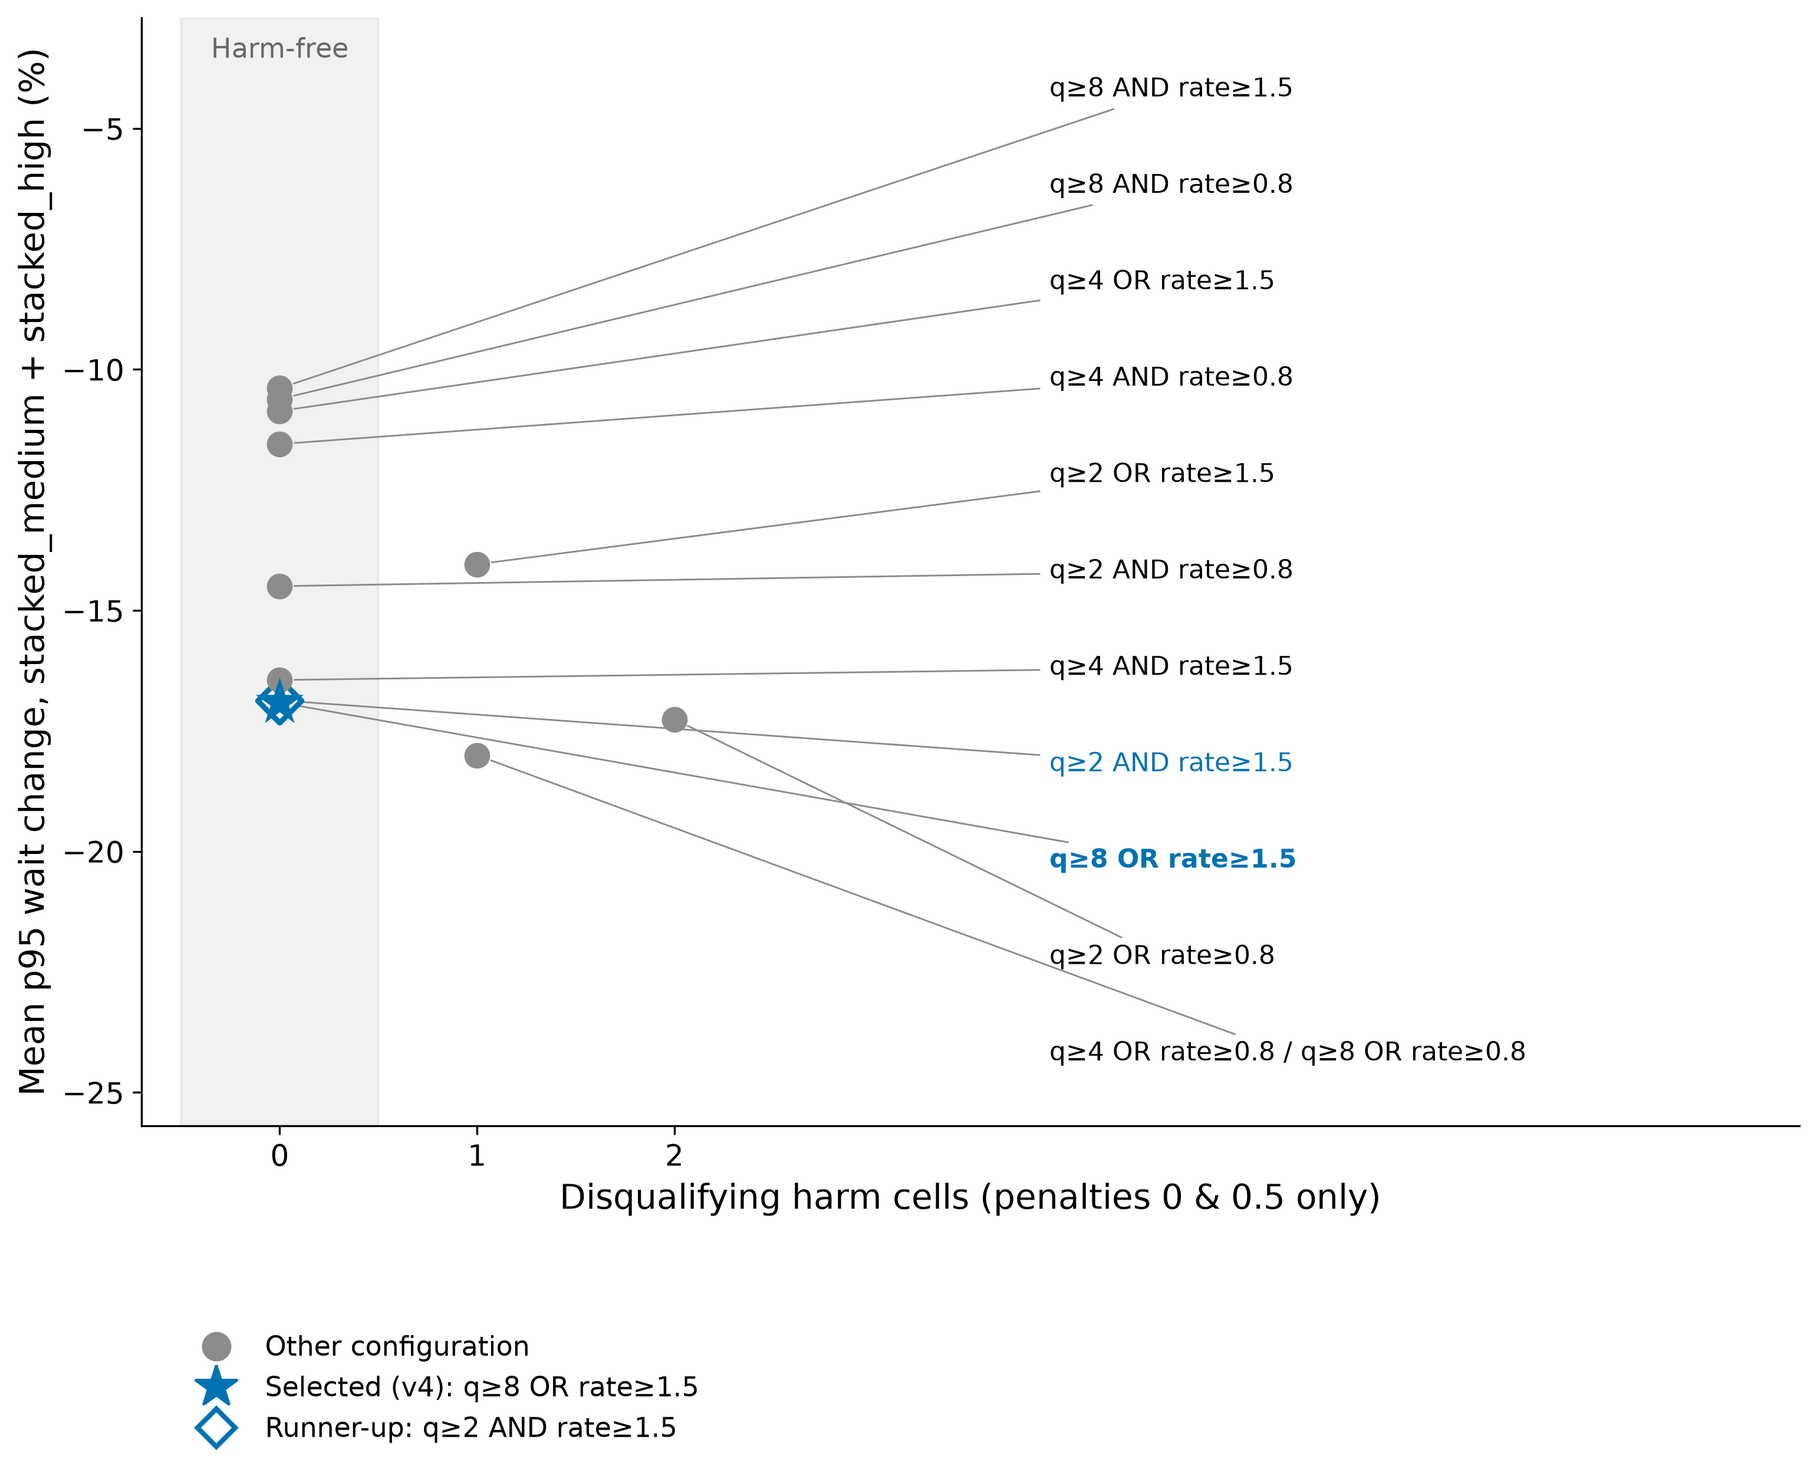
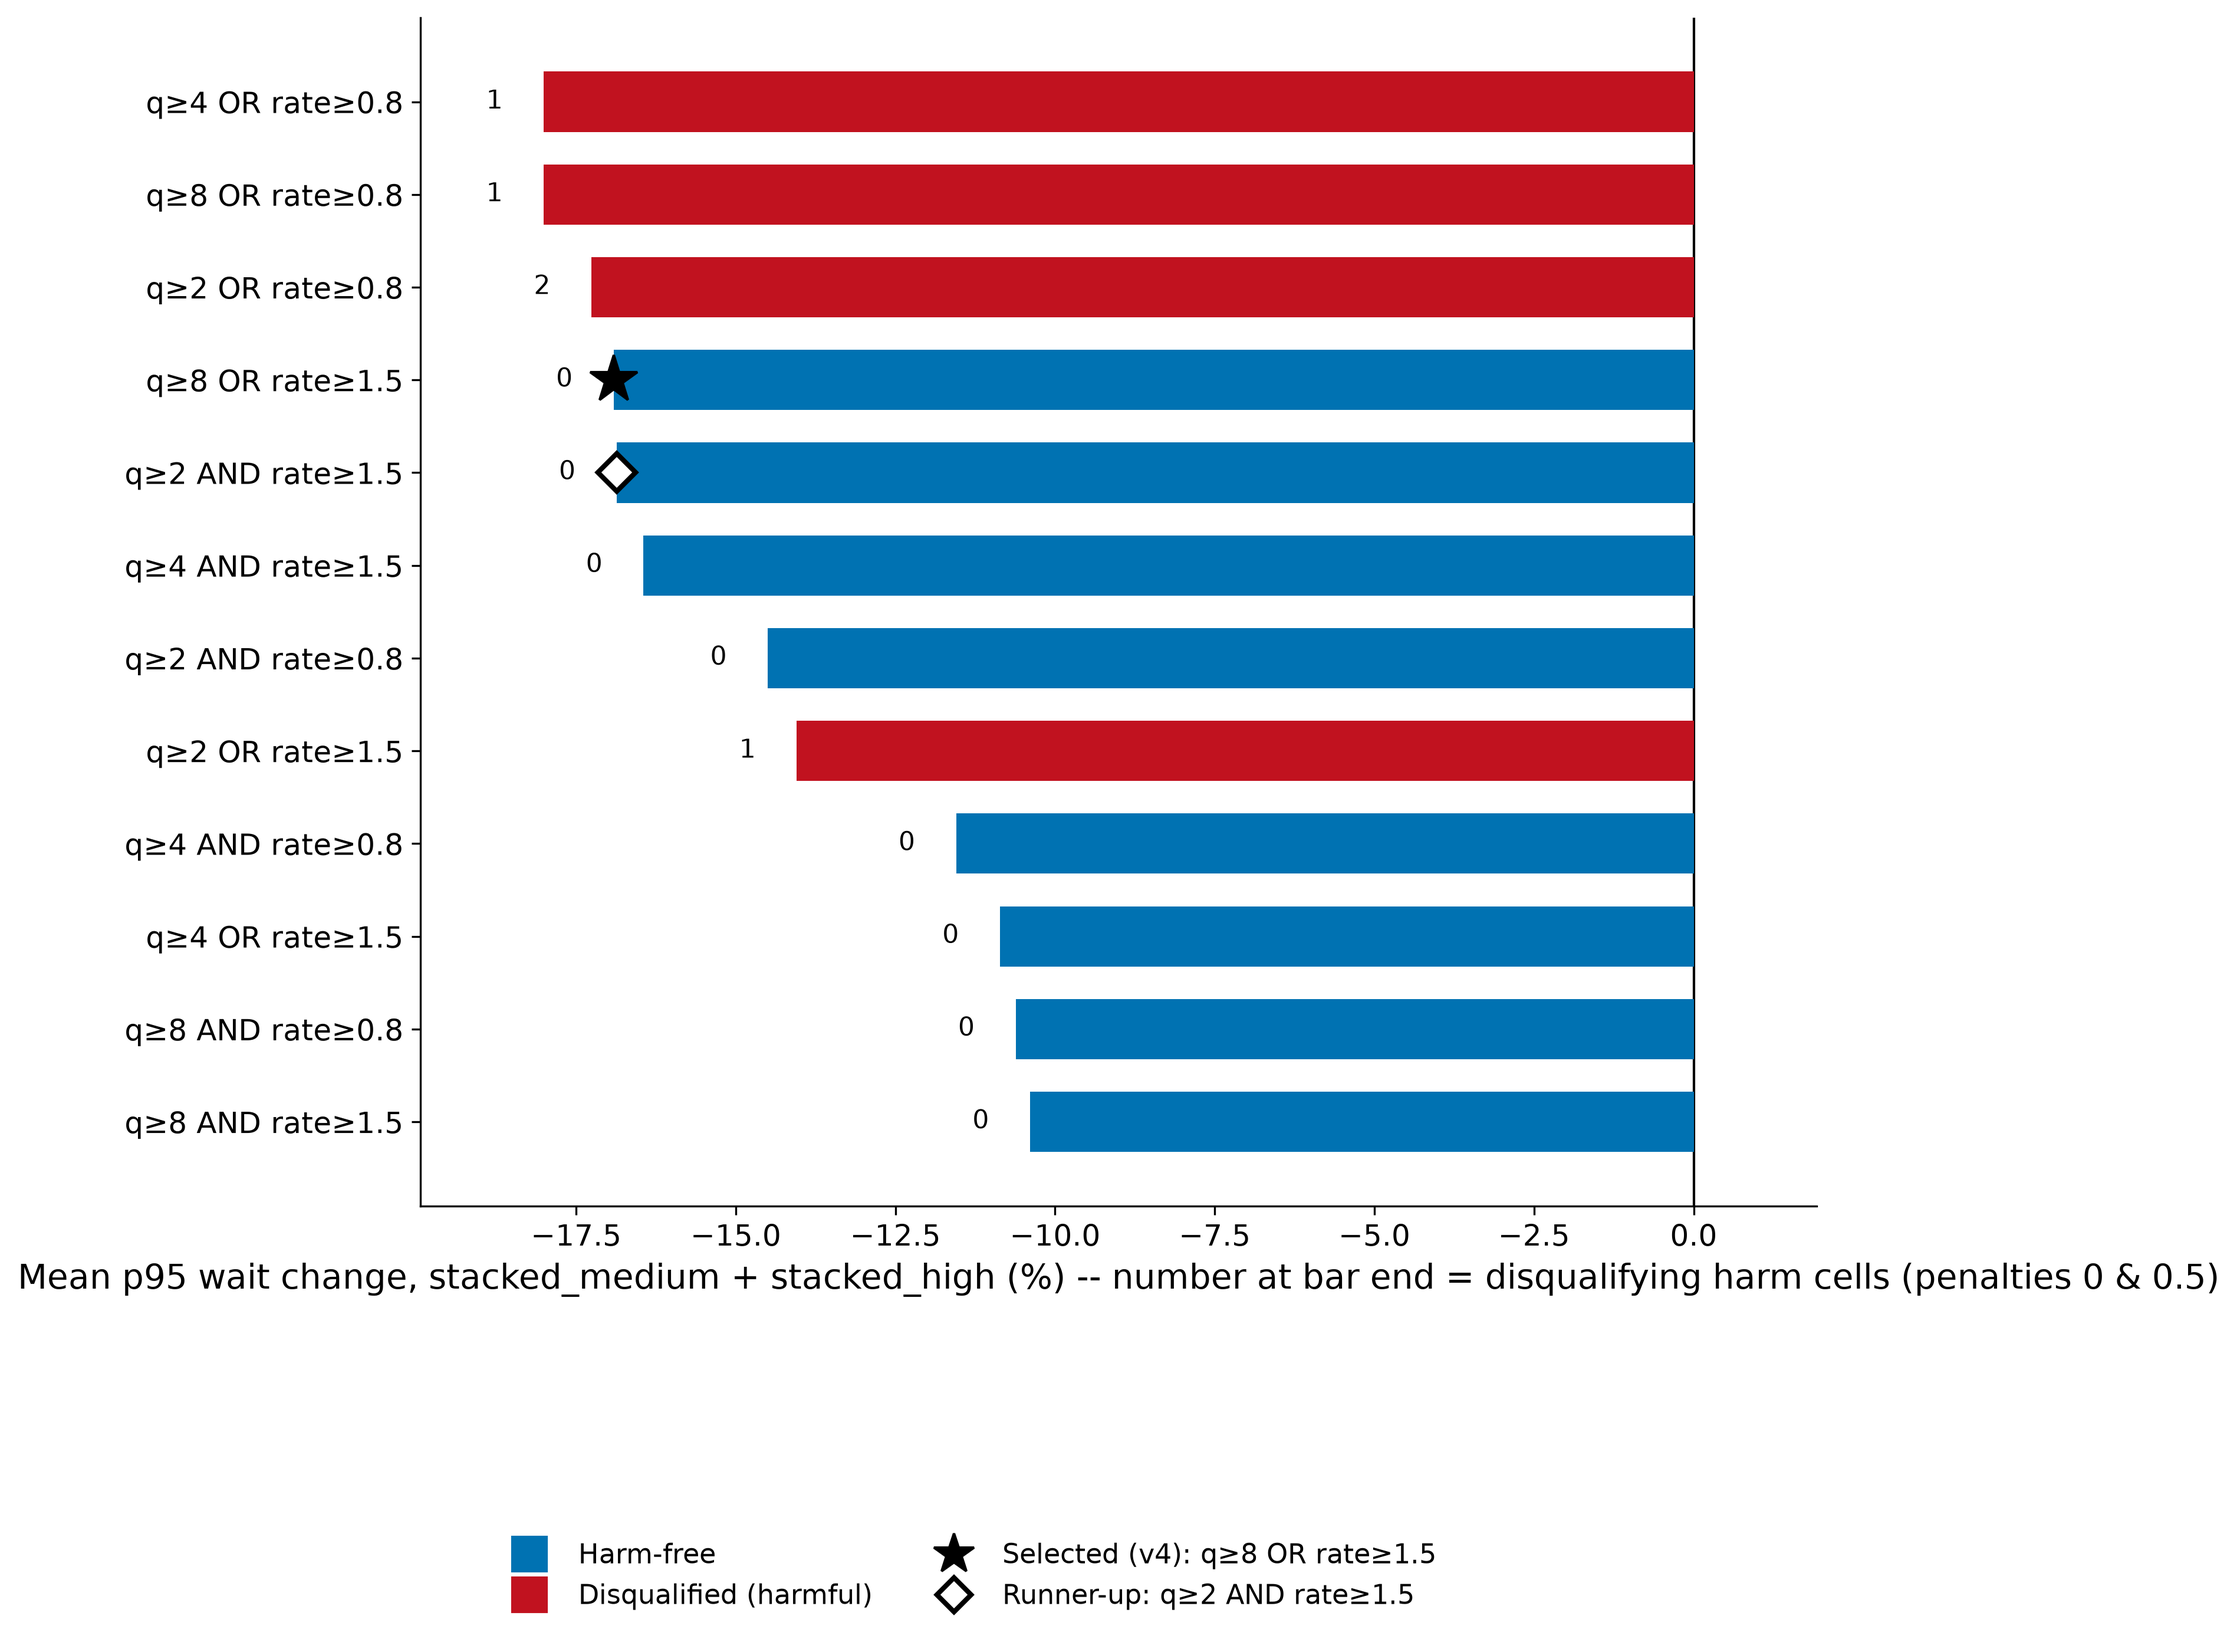
Fig 0: replace scatter with horizontal bar chart
- One bar per config (12), sorted by mean p95 change, harm-free vs disqualified by color
- Harm-cell count labeled at each bar's end; selected/runner-up marked
- Fixed a real bug: xlim excluded x=0, clipping every bar's true start
- Console now prints the disqualified config list from tradeoff_points_v4.csv

diff --git a/final_results/figures/make_figures.py b/final_results/figures/make_figures.py
@@ -194,6 +194,9 @@ def fig0_calibration_grid():
     # harm.py, not by task6_threshold_grid_tradeoff.py which wrote
     # tradeoff_points_v4.csv) before drawing anything.
     harm_free = sorted(p["config"] for p in points if p["harm_count"] == 0)
+    disqualified = sorted(p["config"] for p in points if p["harm_count"] > 0)
+    print(f"Fig 0: {len(disqualified)}/{len(points)} disqualified configs, "
+          f"from tradeoff_points_v4.csv's harm_count>0: {disqualified}")
     expected_harm_free = sorted(sel["harm_free_configs"])
     print(f"Fig 0: {len(harm_free)}/{len(points)} harm-free configs: {harm_free}")
     if harm_free != expected_harm_free:
@@ -221,97 +224,70 @@ def fig0_calibration_grid():
     print(f"Fig 0: SELECTED={selected_name} ({selected_pt['mean_pct']:.2f}%), "
           f"RUNNER-UP={runner_up_name} ({runner_up_pt['mean_pct']:.2f}%)")
 
-    # Group points landing on (almost) the exact same spot -- verified
-    # against the raw CSV this session: q4_a0.8_or and q8_a0.8_or are
-    # numerically IDENTICAL (same harmed workload drives both, so q never
-    # gets a chance to matter) -- merge rather than silently overplot one
-    # marker on the other.
-    groups = {}
-    for p in points:
-        key = (p["harm_count"], round(p["mean_pct"], 4))
-        groups.setdefault(key, []).append(p)
-    merged = []
-    for grp in groups.values():
-        merged.append(dict(
-            harm_count=grp[0]["harm_count"],
-            mean_pct=sum(p["mean_pct"] for p in grp) / len(grp),
-            configs=[p["config"] for p in grp],
-            label=" / ".join(p["label"] for p in grp),
-            is_selected=any(p["config"] == selected_name for p in grp),
-            is_runner_up=any(p["config"] == runner_up_name for p in grp),
-        ))
-    dupes = [g for g in merged if len(g["configs"]) > 1]
-    if dupes:
-        print("Fig 0: merged coincident points: " +
-              "; ".join(" + ".join(g["configs"]) for g in dupes))
+    # Horizontal bar chart, one bar per config (all 12, never merged --
+    # unlike a scatter, separate bars don't overplot even when two
+    # configs' scores coincide, e.g. q4_a0.8_or/q8_a0.8_or below).
+    # Sorted by selection score, best (most negative = biggest p95_wait
+    # reduction) at the top, matching Fig 1's "best at top" convention.
+    ordered = sorted(points, key=lambda p: p["mean_pct"])
+    ordered_for_plot = list(reversed(ordered))  # barh: first entry plots at the bottom
 
-    fig, ax = plt.subplots(figsize=(10.5, 8))
+    HARM_FREE_COLOR = COLOR["selected_checked"]
+    DISQUALIFIED_COLOR = COLOR["harm"]
 
-    max_harm = max(g["harm_count"] for g in merged)
-    ax.axvspan(-0.5, 0.5, color=COLOR["baseline"], alpha=0.12, zorder=0)
-    ax.annotate("Harm-free", xy=(0, 1), xycoords=("data", "axes fraction"),
-                xytext=(0, -8), textcoords="offset points",
-                ha="center", va="top", fontsize=11, color="dimgray")
+    y = list(range(len(ordered_for_plot)))
+    fig, ax = plt.subplots(figsize=(10, 8.5))
+    bar_colors = [HARM_FREE_COLOR if p["harm_count"] == 0 else DISQUALIFIED_COLOR
+                  for p in ordered_for_plot]
+    ax.barh(y, [p["mean_pct"] for p in ordered_for_plot], height=0.65,
+            color=bar_colors, zorder=3)
+    ax.axvline(0, color="black", linewidth=1.0)
 
-    for g in merged:
-        if g["is_selected"]:
-            marker, size, face, edge, lw = "*", 420, COLOR["selected_checked"], COLOR["selected_checked"], 0
-        elif g["is_runner_up"]:
-            marker, size, face, edge, lw = "D", 160, "white", COLOR["selected_checked"], 2.2
-        else:
-            marker, size, face, edge, lw = "o", 110, COLOR["baseline"], COLOR["baseline"], 0
-        ax.scatter(g["harm_count"], g["mean_pct"], marker=marker, s=size,
-                   facecolor=face, edgecolor=edge, linewidth=lw, zorder=5)
+    xmin = min(p["mean_pct"] for p in points)
+    xmax = max(p["mean_pct"] for p in points)
+    label_pad = (xmax - xmin) * 0.045 + 0.3  # layout: space for the harm-count number
 
-    # Sorted label column to the right of the data, each connected to its
-    # real point with a thin leader line -- guarantees no label overlap
-    # regardless of how close the real data points are (two configs here
-    # differ by as little as 0.04 percentage points). Column span is
-    # derived from the data's own range plus one row per point, not a
-    # fixed pixel guess.
-    ordered = sorted(merged, key=lambda g: -g["mean_pct"])
-    n = len(ordered)
-    min_gap = 2.0  # layout choice: vertical spacing between stacked label rows
-    natural_top = max(g["mean_pct"] for g in merged)
-    natural_bottom = min(g["mean_pct"] for g in merged)
-    center = (natural_top + natural_bottom) / 2
-    half_span = max((n - 1) * min_gap / 2, (natural_top - natural_bottom) / 2 + 1.0)
-    top, bottom = center + half_span, center - half_span
-    label_x = max_harm + 1.9
-    step = (top - bottom) / max(n - 1, 1)
-    for i, g in enumerate(ordered):
-        ly = top - i * step
-        weight = "bold" if g["is_selected"] else "normal"
-        color = COLOR["selected_checked"] if (g["is_selected"] or g["is_runner_up"]) else "black"
-        ax.annotate(g["label"], xy=(g["harm_count"], g["mean_pct"]),
-                    xytext=(label_x, ly), fontsize=10.5, fontweight=weight, color=color,
-                    va="center", ha="left",
-                    arrowprops=dict(arrowstyle="-", lw=0.7, color="0.55",
-                                     shrinkA=2, shrinkB=6))
+    for yy, p in zip(y, ordered_for_plot):
+        x_end = p["mean_pct"]
+        going_left = x_end <= 0
+        xtxt = x_end - label_pad if going_left else x_end + label_pad
+        ax.annotate(str(p["harm_count"]), xy=(xtxt, yy), va="center",
+                    ha="right" if going_left else "left", fontsize=10.5, color="black")
+        if p["config"] == selected_name:
+            ax.plot(x_end, yy, marker="*", markersize=20, color="black", zorder=6)
+        elif p["config"] == runner_up_name:
+            ax.plot(x_end, yy, marker="D", markersize=11, markerfacecolor="white",
+                    markeredgecolor="black", markeredgewidth=2, zorder=6)
 
-    ax.set_xlim(-0.7, label_x + 3.8)
-    ax.set_ylim(bottom - 1.5, top + 1.5)
-    ax.set_xticks(range(0, max_harm + 1))
-    ax.set_xlabel("Disqualifying harm cells (penalties 0 & 0.5 only)")
-    ax.set_ylabel("Mean p95 wait change, stacked_medium + stacked_high (%)")
+    ax.set_yticks(y)
+    ax.set_yticklabels([p["label"] for p in ordered_for_plot])
+    # Bars are drawn from 0 (barh's default), so the view must include 0
+    # regardless of whether every value happens to be negative -- excluding
+    # it here would silently clip every bar's true starting edge.
+    ax.set_xlim(min(xmin, 0) - 3 * label_pad, max(xmax, 0) + 3 * label_pad)
+    ax.set_xlabel("Mean p95 wait change, stacked_medium + stacked_high (%) "
+                  "-- number at bar end = disqualifying harm cells (penalties 0 & 0.5)")
 
     handles = [
-        Line2D([0], [0], marker="o", linestyle="none", markersize=11,
-               markerfacecolor=COLOR["baseline"], markeredgecolor=COLOR["baseline"],
-               label="Other configuration"),
-        Line2D([0], [0], marker="*", linestyle="none", markersize=18,
-               markerfacecolor=COLOR["selected_checked"], markeredgecolor=COLOR["selected_checked"],
+        Line2D([0], [0], marker="s", linestyle="none", markersize=14,
+               markerfacecolor=HARM_FREE_COLOR, markeredgecolor=HARM_FREE_COLOR,
+               label="Harm-free"),
+        Line2D([0], [0], marker="s", linestyle="none", markersize=14,
+               markerfacecolor=DISQUALIFIED_COLOR, markeredgecolor=DISQUALIFIED_COLOR,
+               label="Disqualified (harmful)"),
+        Line2D([0], [0], marker="*", linestyle="none", markersize=17, color="black",
                label=f"Selected (v4): {selected_pt['label']}"),
-        Line2D([0], [0], marker="D", linestyle="none", markersize=11,
-               markerfacecolor="white", markeredgecolor=COLOR["selected_checked"], markeredgewidth=2,
+        Line2D([0], [0], marker="D", linestyle="none", markersize=10,
+               markerfacecolor="white", markeredgecolor="black", markeredgewidth=2,
                label=f"Runner-up: {runner_up_pt['label']}"),
     ]
-    fig.legend(handles=handles, loc="upper left", frameon=False,
-               fontsize=11, bbox_to_anchor=(0.1, 0.06))
+    fig.legend(handles=handles, loc="lower center", ncol=2, frameon=False,
+               fontsize=11, bbox_to_anchor=(0.5, -0.1))
     fig.tight_layout(rect=(0, 0.1, 1, 1))
 
     save(fig, "fig0_calibration_grid")
-    return dict(selected=selected_name, runner_up=runner_up_name, harm_free=harm_free)
+    return dict(selected=selected_name, runner_up=runner_up_name,
+                harm_free=harm_free, disqualified=disqualified)
 
 
 # =============================================================== Fig 1 ==
@@ -619,7 +595,7 @@ def main():
 
     print("\n=== verification summary ===")
     print(f"Fig 0: selected={r0['selected']}, runner_up={r0['runner_up']}, "
-          f"harm_free={r0['harm_free']}")
+          f"harm_free={r0['harm_free']}, disqualified={r0['disqualified']}")
     print(f"Fig 1 selected_checked p95_wait% (penalty=0.5): {r1['checked_pct']}")
     print(f"Fig 2: {r2['improved']}/{r2['n']} seeds improved on "
           f"{FIG2_WORKLOAD}/penalty={FIG2_PENALTY}")

diff --git a/docs/FILES.md b/docs/FILES.md
@@ -64,7 +64,7 @@ Read-only, same discipline as `3_idle_check_cost/build_cost_table.py`: no simula
 | file | what it does |
 |---|---|
 | `make_figures.py` | One script, five figures. Reads `results_task6_confirmation_v4_MAIN_TABLE.csv`, `_TABLE_selected_unchecked.csv`, `_TABLE_original_q2_a0.8_or_unchecked.csv`, `_CHECK_EFFECT.csv`, the `stacked_high` per-seed CSV, and (Fig 0) `../1_calibration_grid/tradeoff_points_v4.csv` + `selected_config_v4.json`. Cross-checks every plotted number against a second source table before drawing it (e.g. Fig 0's harm-free list and selected/runner-up scores are checked against `selected_config_v4.json`, independently written by a different script; Fig 3's migration counts are independently recomputed and compared against `_CHECK_EFFECT.csv`'s own percentage column) and prints every check's result. |
-| `fig0_calibration_grid.png` | The 12-config calibration grid: x = disqualifying harm cells (penalties 0/0.5 only), y = mean `p95_wait` change on `stacked_medium`+`stacked_high` over those same two penalties. Selected and runner-up configs highlighted (star / open diamond); the harm-free column (x=0) shaded. Two configs (`q4_a0.8_or`, `q8_a0.8_or`) land on numerically identical values and are merged into one labeled point rather than silently overplotted. Labels sit in a sorted column with leader lines back to their real point, so two configs 0.04 percentage points apart stay legible. |
+| `fig0_calibration_grid.png` | The 12-config calibration grid as a horizontal bar chart: one bar per config, length = mean `p95_wait` change on `stacked_medium`+`stacked_high` (penalties 0/0.5), sorted best (most negative) at top. Bar color is harm-free vs disqualified; the disqualifying-harm-cell count is written at each bar's end. Selected (star) and runner-up (open diamond) marked on their own bars. Console output also prints the disqualified config list directly from `tradeoff_points_v4.csv`. |
 | `fig1_headline_p95wait_by_workload.png` | All 16 workloads, p95_wait % change vs baseline at penalty=0.5ms, `selected_checked` vs `original_q2_a0.8_or_unchecked`, sorted so the 4 workloads where v4 significantly helps are at the top; a small circle marks a workload where v4's own change is exactly zero. |
 | `fig2_stacked_high_perseed_scatter.png` | `stacked_high`/penalty=0.5: one point per seed, baseline vs `selected_checked` p95_wait, with the y=x line and the improved-seed count annotated. |
 | `fig3_bursty_high_s64_checked_vs_unchecked.png` | `bursty_high_s64`, all 3 penalties: `total_migrations` and `p95_wait` for baseline/`selected_unchecked`/`selected_checked`. The one harmful cell (`selected_unchecked`, penalty=2.0) is called out by a text label on the migrations panel naming the specific metrics that tripped it (read from that row's own per-metric harm columns -- `avg_slowdown`/`makespan_excess`, not p95_wait or migrations themselves), rather than a marker on both panels. |

diff --git a/docs/PIPELINE.md b/docs/PIPELINE.md
@@ -106,7 +106,7 @@ python make_figures.py
 
 No arguments; same `TASK10_V4=1` requirement as every script above (refuses to run otherwise). Reads only CSVs already on disk — the two confirmation steps above, plus the already-committed calibration-grid CSVs for Fig 0 — no new simulations, nothing in `final_results/2_confirmation/` or `final_results/1_calibration_grid/` is modified. Writes five PNG figures (300 dpi) into `final_results/figures/`:
 
-- `fig0_calibration_grid.png` — the 12-config calibration grid, disqualifying harm cells (penalties 0/0.5) vs mean `p95_wait` change on `stacked_medium`+`stacked_high`, selected and runner-up configs highlighted, from `final_results/1_calibration_grid/tradeoff_points_v4.csv`, cross-checked against `selected_config_v4.json`.
+- `fig0_calibration_grid.png` — the 12-config calibration grid as a horizontal bar chart (one bar per config, sorted by mean `p95_wait` change on `stacked_medium`+`stacked_high`, penalties 0/0.5; harm-free vs disqualified by color, disqualifying-cell count at each bar's end, selected/runner-up marked), from `final_results/1_calibration_grid/tradeoff_points_v4.csv`, cross-checked against `selected_config_v4.json`.
 - `fig1_headline_p95wait_by_workload.png` — all 16 workloads' `p95_wait` % change at penalty=0.5ms, `selected_checked` vs `original_q2_a0.8_or_unchecked`, from `_MAIN_TABLE.csv` and `_TABLE_original_q2_a0.8_or_unchecked.csv`.
 - `fig2_stacked_high_perseed_scatter.png` — `stacked_high`/penalty=0.5, one point per seed, from `results_task6_confirmation_v4_stacked_high_perseed.csv`.
 - `fig3_bursty_high_s64_checked_vs_unchecked.png` — `bursty_high_s64`, all 3 penalties, `total_migrations` and `p95_wait` for baseline/`selected_unchecked`/`selected_checked`, from `_MAIN_TABLE.csv` and `_TABLE_selected_unchecked.csv`, cross-checked against `_CHECK_EFFECT.csv`.
